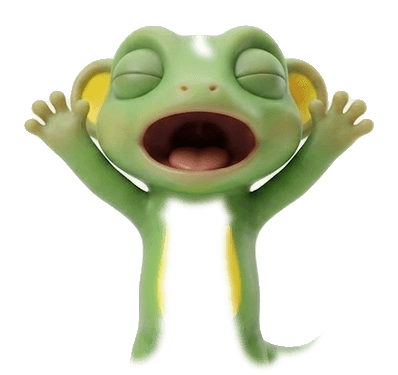
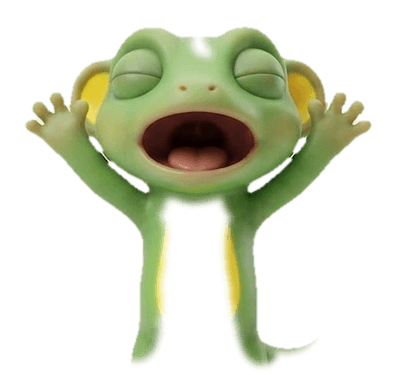
mascota: des-fringe en parches completos, crossfade de sentado, renombre
- parches.py: `desflecar` para salto, sentado y estira. Erosiona el alfa
  2 px, lo difumina un píxel y pone a 0 lo casi blanco (>225) con alfa
  parcial. Además quita los huecos cerrados del color del fondo (entre
  brazo y mejilla, dentro de la curva de la cola): rembg los rellena
  como personaje con alfa 255 y el des-fringe del borde no los alcanza.
  La zona de los ojos queda fuera, porque su blanco es el mismo gris.
- Geckonoid: el gesto completo y la base (cuerpo, cola y parches, en una
  capa) se funden a la vez en 150 ms con opacidades complementarias, y
  el parche se suma con mix-blend-mode: plus-lighter en un grupo aislado.
  Donde están las dos poses, la imagen es opaca en cada frame y el fondo
  ya no se transparenta.
- /dev/mascota: conmutador de fondo Claro/Oscuro; el oscuro es el del
  banner (banner.fondo).
- señala.jpg pasa a senala.jpg; sus parches salen idénticos.

diff --git a/components/mascota/Geckonoid.tsx b/components/mascota/Geckonoid.tsx
@@ -64,8 +64,8 @@ export { ESTADOS_MASCOTA, GESTOS_MASCOTA } from "@/components/mascota/estados";
  * gesto, el estado entero se aparta —hueco incluido: es una sola cara—,
  * y al acabar vuelve, con el cuerpo en la pose final del estado, sin
  * repetir su salto. Un estado nuevo corta el gesto. Los gestos
- * COMPLETOS («salto», «sentado») son el personaje entero: tapan el
- * cuerpo y la cola mientras duran.
+ * COMPLETOS («salto», «sentado») son el personaje entero: sustituyen al
+ * cuerpo, la cola y los parches mientras duran (FUNDIDO_COMPLETO_S).
  *
  * EL TAMAÑO. `size` es el ALTO del lienzo en píxeles; el ancho sale de
  * la proporción del maestro. Los parches de «éxito» y «nivel superado»
@@ -118,6 +118,15 @@ const CABEZA_OPACA = 0.43;
 const CABEZA_FUNDE = 0.5;
 
 const FUNDIDO_S = 0.2;
+/**
+ * El paso a un gesto completo y la vuelta: la base (con todo lo suyo) y
+ * el parche se funden a la vez con opacidades complementarias, y el
+ * parche se SUMA (mix-blend-mode: plus-lighter) en vez de ponerse
+ * encima. Apiladas normalmente, dos capas al 50 % tapan el 75 % y el
+ * fondo se transparenta a mitad de camino; sumadas, donde están las dos
+ * da 1 en cada frame.
+ */
+const FUNDIDO_COMPLETO_S = 0.15;
 const RETARDO_CARA_S = 0.1;
 const RETARDO_BRAZO_S = 0.15;
 const RETARDO_ADORNO_S = 0.22;
@@ -636,9 +645,13 @@ export default function Geckonoid({
     mostrar("duda");
   };
 
-  const retardoParche = (p: Parche) =>
-    p.completo ? 0 : seg(p.etiqueta === "cara" || p.etiqueta === "cabeza" ? RETARDO_CARA_S : RETARDO_BRAZO_S);
+  const retardoParche = (p: Parche) => seg(p.etiqueta === "cara" || p.etiqueta === "cabeza" ? RETARDO_CARA_S : RETARDO_BRAZO_S);
   const fundido = (retardo = 0): Transition => ({ duration: seg(FUNDIDO_S), ease: "easeOut", delay: retardo });
+  // Lineal y sin retardo, igual para las dos capas: arrancan en el mismo
+  // frame y sus opacidades suman 1 en todos.
+  const fundidoCompleto: Transition = { duration: seg(FUNDIDO_COMPLETO_S), ease: "linear" };
+  const parcheCompleto = parches.find((p) => p.completo);
+  const parchesSueltos = parcheCompleto ? parches.filter((p) => !p.completo) : parches;
 
   return (
     <div
@@ -660,15 +673,16 @@ export default function Geckonoid({
           animate={reducido ? undefined : { scale: [1, 1.015, 1] }}
           transition={{ duration: seg(3), repeat: Infinity, ease: "easeInOut" }}
         >
-          <div ref={cuerpo} className="absolute inset-0" style={{ transformOrigin: origenPies }}>
-            {/* La base: cuerpo, resto y cola. Un gesto completo la tapa
-                entera; se quita cuando él ya está opaco, y vuelve de golpe
-                debajo cuando él empieza a irse, para que no se transparenten. */}
+          {/* `isolation`: el parche completo se suma (plus-lighter) solo con
+              lo de dentro, no con el fondo de la página. */}
+          <div ref={cuerpo} className="absolute inset-0" style={{ transformOrigin: origenPies, isolation: "isolate" }}>
+            {/* Todo menos el gesto completo —cuerpo, resto, cola y parches—,
+                en una capa, para fundirla entera con él (ver FUNDIDO_COMPLETO_S). */}
             <motion.div
               className="absolute inset-0"
               initial={false}
               animate={{ opacity: completo ? 0 : 1 }}
-              transition={completo ? { duration: 0, delay: seg(FUNDIDO_S) } : { duration: 0 }}
+              transition={fundidoCompleto}
             >
               <div className="absolute inset-0" style={huecos.length ? mascaraPng(...huecos) : undefined}>
                 <img src={src("cuerpo.png")} alt="" draggable={false} className="absolute inset-0 h-full w-full" style={MASCARA_CUERPO} />
@@ -732,22 +746,38 @@ export default function Geckonoid({
                   if (colaAmplia) setColaAmplia(false);
                 }}
               />
+
+              <AnimatePresence>
+                {parchesSueltos.map((p) => (
+                  <motion.img
+                    key={p.archivo}
+                    src={srcParche(p.archivo)}
+                    alt=""
+                    draggable={false}
+                    style={caja(p)}
+                    initial={{ opacity: 0 }}
+                    animate={{ opacity: 1 }}
+                    exit={{ opacity: 0, transition: fundido() }}
+                    transition={fundido(retardoParche(p))}
+                  />
+                ))}
+              </AnimatePresence>
             </motion.div>
 
             <AnimatePresence>
-              {parches.map((p) => (
+              {parcheCompleto && (
                 <motion.img
-                  key={p.archivo}
-                  src={srcParche(p.archivo)}
+                  key={parcheCompleto.archivo}
+                  src={srcParche(parcheCompleto.archivo)}
                   alt=""
                   draggable={false}
-                  style={caja(p)}
+                  style={{ ...caja(parcheCompleto), mixBlendMode: "plus-lighter" }}
                   initial={{ opacity: 0 }}
                   animate={{ opacity: 1 }}
-                  exit={{ opacity: 0, transition: fundido() }}
-                  transition={fundido(retardoParche(p))}
+                  exit={{ opacity: 0, transition: fundidoCompleto }}
+                  transition={fundidoCompleto}
                 />
-              ))}
+              )}
             </AnimatePresence>
 
             {/* Los adornos, en SVG: salen después de la cara. */}

diff --git a/app/dev/mascota/page.tsx b/app/dev/mascota/page.tsx
@@ -18,7 +18,8 @@ import { useMascota } from "@/components/mascota/useMascota";
  * No es una pantalla del alumno, pero cuelga del mismo middleware, así
  * que hace falta sesión para verla. Se queda en el repo a propósito:
  * es donde se comprueba cada gesto nuevo sin tener que provocarlo en
- * el producto. El fondo oscuro es para ver los bordes y los huecos:
+ * el producto. El fondo oscuro es el del banner (banner.fondo), donde
+ * vive la mascota del inicio, y sirve para ver los bordes y los huecos:
  * sobre blanco un filete claro o un hueco mal cerrado no se notan.
  * La velocidad (0,5×, 1×, 2×) es para revisar los tiempos: a cámara
  * lenta se ve la anticipación y el aplastamiento del salto.
@@ -62,7 +63,7 @@ export default function PaginaMascota() {
   const [size, setSize] = useState<(typeof TAMANOS)[number]>(240);
   const [velocidad, setVelocidad] = useState<(typeof VELOCIDADES)[number]>(1);
   const [volverAIdle, setVolverAIdle] = useState(true);
-  const [oscuro, setOscuro] = useState(false);
+  const [fondo, setFondo] = useState<"claro" | "oscuro">("claro");
   const [micro, setMicro] = useState<{ nombre: MicroGesto; n: number }>();
   const [ultimoGesto, setUltimoGesto] = useState<MicroGesto>();
 
@@ -82,7 +83,7 @@ export default function PaginaMascota() {
       </div>
 
       {/* Con aire a los lados y arriba: las manos de «éxito» sobresalen del lienzo, y el salto sube. */}
-      <div className={`rounded-[24px] border border-marca-borde px-16 pb-6 pt-14 ${oscuro ? "bg-[#2b2f3a]" : "bg-white"}`}>
+      <div className={`rounded-[24px] border border-marca-borde px-16 pb-6 pt-14 ${fondo === "oscuro" ? "bg-banner-fondo" : "bg-white"}`}>
         <Geckonoid
           estado={mascota.estado}
           disparo={mascota.disparo}
@@ -177,10 +178,22 @@ export default function PaginaMascota() {
           <input type="checkbox" checked={volverAIdle} onChange={(e) => setVolverAIdle(e.target.checked)} />
           Vuelve a idle a los 2,5 s
         </label>
-        <label className="inline-flex items-center gap-2">
-          <input type="checkbox" checked={oscuro} onChange={(e) => setOscuro(e.target.checked)} />
-          Fondo oscuro
-        </label>
+        <span className="inline-flex items-center gap-1.5">
+          Fondo
+          {(["claro", "oscuro"] as const).map((f) => (
+            <button
+              key={f}
+              type="button"
+              aria-pressed={fondo === f}
+              onClick={() => setFondo(f)}
+              className={`rounded-full px-2.5 py-1 font-semibold ${
+                fondo === f ? "bg-marca-tinta text-white" : "bg-marca-niebla text-marca-tinta"
+              }`}
+            >
+              {f === "claro" ? "Claro" : "Oscuro"}
+            </button>
+          ))}
+        </span>
       </div>
     </main>
   );

diff --git a/mascota/scripts/parches.py b/mascota/scripts/parches.py
@@ -40,6 +40,20 @@ gesto. Los de comun.COMPLETOS —otra pose entera— no se recortan: su
 las coordenadas del maestro (mismo encuadre que base.png, ampliado si
 el personaje se sale del lienzo), marcado `"completo": true`. El
 componente lo pone en lugar del cuerpo y la cola.
+
+EL FILETE. En las poses con los brazos arriba (los completos y
+«estira») rembg deja en el hueco entre brazo y cabeza un filete de
+fondo claro, opaco: su alfa es 0 o 255, sin término medio. A esas
+variantes se les pasa `desflecar`: el alfa se erosiona EROSION px, se
+difumina un píxel para que el borde tenga alfa parcial, y donde el alfa
+es parcial y el color es más claro que CLARO en los tres canales —fondo,
+no gecko— se pone a 0. Eso limpia el filete del contorno, pero no los
+huecos CERRADOS —entre el brazo y la mejilla en «estira», dentro de la
+curva de la cola en «sentado»—, que rembg rellena como personaje, con
+alfa 255 y sin borde que erosionar: se quitan además las regiones del
+color del fondo (a menos de FONDO_TOLERANCIA en RGB y con saturación
+por debajo de FONDO_SATURACION) de HUECO_CERRADO px o más, salvo en la
+zona de los ojos, cuyo blanco es del mismo gris.
 """
 
 from __future__ import annotations
@@ -78,6 +92,15 @@ APERTURA = 3
 DILATACION = 14
 DIFUMINADO = 10
 AREA_MINIMA = 400
+DESFLECAR = COMPLETOS | {"estira"}  # ver EL FILETE
+EROSION = 2
+CLARO = 225
+FONDO_TOLERANCIA = 22
+FONDO_SATURACION = 30
+HUECO_CERRADO = 15
+# Donde caen los ojos en todas las variantes (píxeles del maestro, con
+# margen): ahí un gris claro es el blanco del ojo, no fondo.
+ZONA_OJOS = (385, 80, 640, 190)
 HUECO_MINIMO = 20  # píxeles del cuerpo que hay que quitar para escribir un hueco
 AIRE_VISTA = 60  # lo que sobresale del lienzo en la hoja de control (las manos de «éxito»)
 
@@ -88,6 +111,28 @@ ZONA_CABEZA = (383, 84, 645, 266)
 ZONA_CARA = (405, 110, 625, 250)
 ZONA_BRAZOS_Y = (60, 430)
 CENTRO_X = (480, 560)  # entre ambos, ni un brazo ni el otro
+
+
+def desflecar(v: np.ndarray, fondo: tuple[int, int, int]) -> np.ndarray:
+    """La variante sin fondo (RGBA) sin el filete claro del borde ni los
+    huecos cerrados de fondo. `fondo` es el color del fondo de la variante."""
+    alfa = v[..., 3].copy()
+    # Los huecos cerrados, primero: después la erosión les limpia el borde.
+    rgb = v[..., :3].astype(np.int16)
+    saturacion = cv2.cvtColor(v[..., :3], cv2.COLOR_RGB2HSV)[..., 1]
+    de_fondo = (np.abs(rgb - np.array(fondo, dtype=np.int16)).max(axis=2) < FONDO_TOLERANCIA) & (saturacion < FONDO_SATURACION) & (alfa > 0)
+    n, etiquetas, stats, centros = cv2.connectedComponentsWithStats(de_fondo.astype(np.uint8), connectivity=8)
+    ox0, oy0, ox1, oy1 = ZONA_OJOS
+    for i in range(1, n):
+        cx, cy = centros[i]
+        if stats[i][4] >= HUECO_CERRADO and not (ox0 <= cx <= ox1 and oy0 <= cy <= oy1):
+            alfa[etiquetas == i] = 0
+
+    alfa = cv2.erode(alfa, cv2.getStructuringElement(cv2.MORPH_ELLIPSE, (EROSION * 2 + 1, EROSION * 2 + 1)))
+    alfa = cv2.GaussianBlur(alfa, (3, 3), 0)
+    claro = (v[..., :3] > CLARO).all(axis=2)
+    alfa[(alfa < 255) & claro] = 0
+    return np.dstack([v[..., :3], alfa])
 
 
 def etiquetar(cx: float, cy: float) -> str:
@@ -140,7 +185,7 @@ def main() -> int:
         variante = cargar_variante(nombre, maestro.size)
         if estado in COMPLETOS:
             # Sin alinear: la cámara es la misma y la pose, otra.
-            v = np.asarray(sin_fondo(variante, sesion))
+            v = desflecar(np.asarray(sin_fondo(variante, sesion)), color_fondo(variante))
             ys, xs = np.where(v[..., 3] > UMBRAL_ALFA)
             x0, y0 = min(lienzo.x0, int(xs.min())), min(lienzo.y0, int(ys.min()))
             x1, y1 = max(lienzo.x1, int(xs.max()) + 1), max(lienzo.y1, int(ys.max()) + 1)
@@ -153,6 +198,8 @@ def main() -> int:
         al = alinear(maestro, variante)
         v_rgb = desplazar(np.asarray(variante), al.dx, al.dy, color_fondo(variante))
         v = np.asarray(sin_fondo(Image.fromarray(v_rgb), sesion))
+        if estado in DESFLECAR:
+            v = desflecar(v, color_fondo(variante))
         alfa_v = v[..., 3].astype(np.float32) / 255.0
 
         # La diferencia, solo donde hay personaje en alguno de los dos y

diff --git a/mascota/scripts/comun.py b/mascota/scripts/comun.py
@@ -46,11 +46,10 @@ ESTADOS: dict[str, str] = {
 }
 
 # Variante → gesto: poses sueltas que el componente pone encima de
-# cualquier estado (mascota.gesto("saludo")), no estados. El archivo de
-# «señala» lleva eñe; el gesto, no.
+# cualquier estado (mascota.gesto("saludo")), no estados.
 GESTOS: dict[str, str] = {
     "saludo": "saludo",
-    "señala": "senala",
+    "senala": "senala",
     "salto": "salto",
     "dormido": "dormido",
     "estira": "estira",
